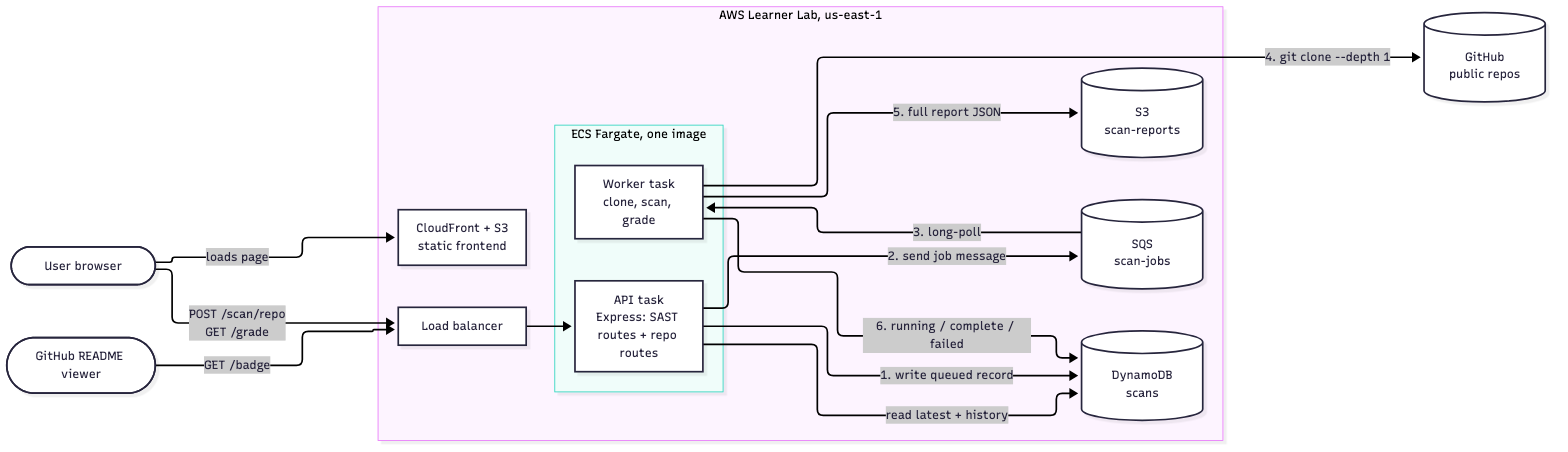
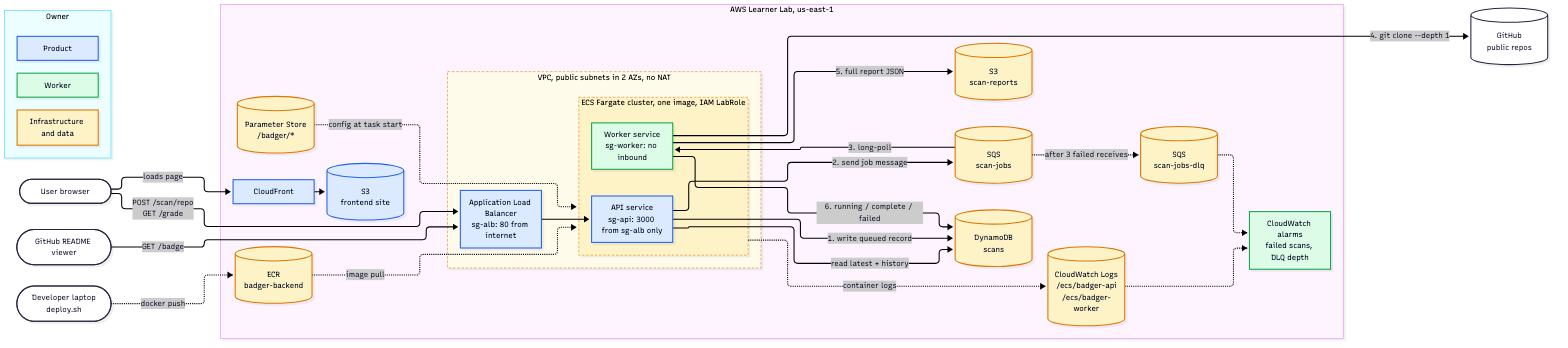
architecture v2: Milestone 3 infrastructure plan, archive v1 diagram

diff --git a/docs/architecture.md b/docs/architecture.md
@@ -1,6 +1,6 @@
 # Architecture
 
-Target AWS architecture (Milestone 3+). Nothing is deployed yet; locally, every AWS service below is emulated (see [Local mapping](#local-mapping)). Message and record formats are in [`contracts.md`](contracts.md).
+Target AWS architecture for Milestone 3. Nothing is deployed yet; locally, the AWS services are emulated (see [Local mapping](#local-mapping)). Message and record formats are in [`contracts.md`](contracts.md). Earlier versions of this diagram are kept under [Revisions](#revisions).
 
 ![Target AWS architecture](architecture.png)
 
@@ -8,21 +8,41 @@ Target AWS architecture (Milestone 3+). Nothing is deployed yet; locally, every 
 flowchart LR
   user([User browser])
   readme([GitHub README viewer])
+  dev([Developer laptop<br/>deploy.sh])
   gh[(GitHub<br/>public repos)]
 
   subgraph aws [AWS Learner Lab, us-east-1]
-    cf[CloudFront + S3<br/>static frontend]
-    alb[Load balancer]
-    subgraph ecs [ECS Fargate, one image]
-      api[API task<br/>Express: SAST routes + repo routes]
-      worker[Worker task<br/>clone, scan, grade]
+    cf[CloudFront]
+    site[(S3<br/>frontend site)]
+
+    subgraph vpc [VPC, public subnets in 2 AZs, no NAT]
+      alb[Application Load Balancer<br/>sg-alb: 80 from internet]
+      subgraph ecs [ECS Fargate cluster, one image, IAM LabRole]
+        api[API service<br/>sg-api: 3000 from sg-alb only]
+        worker[Worker service<br/>sg-worker: no inbound]
+      end
     end
+
     sqs[(SQS<br/>scan-jobs)]
+    dlq[(SQS<br/>scan-jobs-dlq)]
     ddb[(DynamoDB<br/>scans)]
     s3[(S3<br/>scan-reports)]
+    ecr[(ECR<br/>badger-backend)]
+    ssm[(Parameter Store<br/>/badger/*)]
+    logs[(CloudWatch Logs<br/>/ecs/badger-api<br/>/ecs/badger-worker)]
+    alarm[CloudWatch alarms<br/>failed scans, DLQ depth]
   end
 
+  subgraph legend [Owner]
+    direction TB
+    lp[Product]
+    lw[Worker]
+    li[Infrastructure and data]
+  end
+
+  %% Request flow (solid, numbered as in the Flow section)
   user -->|loads page| cf
+  cf --> site
   user -->|POST /scan/repo<br/>GET /grade| alb
   readme -->|GET /badge| alb
   alb --> api
@@ -33,7 +53,27 @@ flowchart LR
   worker -->|5. full report JSON| s3
   worker -->|6. running / complete / failed| ddb
   api -->|read latest + history| ddb
+
+  %% Operations (dotted)
+  dev -.->|docker push| ecr
+  ecr -.->|image pull| ecs
+  ssm -.->|config at task start| ecs
+  ecs -.->|container logs| logs
+  sqs -.->|after 3 failed receives| dlq
+  dlq -.-> alarm
+  logs -.-> alarm
+
+  classDef product fill:#dbeafe,stroke:#2563eb,color:#0f172a
+  classDef worker fill:#dcfce7,stroke:#16a34a,color:#0f172a
+  classDef infra fill:#fef3c7,stroke:#d97706,color:#0f172a
+  class cf,site,alb,api,lp product
+  class worker,alarm,lw worker
+  class sqs,dlq,ddb,s3,ecr,ssm,logs,li infra
+  style vpc fill:#fffbeb,stroke:#d97706,stroke-dasharray:5 3
+  style ecs fill:#fef3c7,stroke:#d97706,stroke-dasharray:5 3
 ```
+
+Solid arrows are the request flow; dotted arrows are deployment, configuration, logging, and failure handling. Colors show which role owns each component (see [Ownership](#ownership)).
 
 ## Flow
 
@@ -42,17 +82,56 @@ flowchart LR
 3. The worker grades the findings, uploads the full report to S3, writes the summary record as `complete` (or `failed`), and only then deletes the message.
 4. The frontend polls `GET /grade/...` until the scan finishes. README badges call `GET /badge/...`, which reads the latest record from DynamoDB.
 
-API and worker are the same image with different commands ([decision 0002](decisions/0002-single-image-api-and-worker.md)), so they scale independently. The load balancer, and how the API is exposed publicly, are assumptions to confirm in Milestone 3.
+API and worker are the same image with different commands ([decision 0002](decisions/0002-single-image-api-and-worker.md)), so they scale independently.
+
+## Operations
+
+- **Deploy:** `deploy.sh` (in `infra/`, Milestone 3) builds the image, pushes it to ECR, and updates the stack. Learner Lab credentials rotate each session, so deploys are run by hand, not from CI.
+- **Configuration:** queue URL, table and bucket names, and clone limits live in Parameter Store under `/badger/`. ECS injects them as environment variables at task start, the same names as `.env.example`. `AWS_ENDPOINT_URL` is not set, so `aws/clients.js` uses the real AWS endpoints.
+- **Permissions:** Learner Lab does not allow creating IAM roles, so both task role and task execution role are the provided `LabRole`.
+- **Network:** the load balancer is the only component that accepts inbound traffic from the internet. The API accepts traffic only from the load balancer's security group; the worker accepts none, and needs outbound HTTPS only (GitHub and AWS APIs).
+- **Logs:** each service writes to its own CloudWatch log group (`/ecs/badger-api`, `/ecs/badger-worker`) with limited retention.
+- **Failure handling:** the worker records expected failures (bad repo, clone timeout, oversized repo) as `failed` and deletes the message. A message that is received three times without being deleted (the worker crashed or hung) moves to the dead-letter queue `scan-jobs-dlq`. CloudWatch alarms watch the DLQ and failed scans.
+
+### Open items
+
+These parts of the diagram are proposals, to be settled in decision records before Milestone 3 deploys:
+
+- **Networking:** public subnets with public IPs and no NAT gateway (a NAT gateway is a fixed hourly cost against the Learner Lab budget), with inbound access restricted by security groups. Alternative: private subnets with NAT or VPC endpoints.
+- **Deploy tooling:** CloudFormation templates driven by `deploy.sh`, or plain AWS CLI scripts.
+- **Public API exposure:** browser and badge requests go straight to the load balancer; routing them through CloudFront is an option. HTTPS needs a certificate, which may not be possible in Learner Lab.
+- **Alarm design:** owned by the Worker role (metric, thresholds, notification).
+
+## Ownership
+
+| Role | Components |
+|---|---|
+| Product (API + frontend) | API service, load balancer, CloudFront and the frontend bucket |
+| Worker | Worker service, SQS consumption, failure handling, CloudWatch alarms |
+| Infrastructure and data | VPC and security groups, ECS cluster, SQS queues, DynamoDB, report bucket, ECR, Parameter Store, log groups, deploy scripts, this diagram |
 
 ## Local mapping
 
 | AWS (target) | Local (`docker compose`) |
 |---|---|
 | SQS, DynamoDB, S3 | `localstack` service running Floci ([decision 0001](decisions/0001-localstack-for-local-dev.md)), resources created by `infra/localstack/init.sh` |
-| ECS API task | `api` service, port 3000 |
-| ECS worker task | `worker` service |
+| SQS dead-letter queue | Not emulated yet |
+| ECS API service | `api` service, port 3000 |
+| ECS worker service | `worker` service |
+| ECR | Image built locally by `docker compose` |
+| Parameter Store | `.env` (copied from `.env.example`) |
+| CloudWatch Logs | `docker compose logs` |
 | CloudFront + S3 frontend | `frontend/index.html` served by the API (until Milestone 4) |
-| Load balancer | none; direct to `localhost:3000` |
+| Load balancer, VPC, security groups | None; direct to `localhost:3000` |
+
+To check the emulated data layer end to end, run `docker compose run --rm api npm run smoke`.
+
+## Revisions
+
+| Version | Milestone | What changed | Diagram |
+|---|---|---|---|
+| v2 (current) | Milestone 3 plan | Added VPC and security groups, ECR, Parameter Store, CloudWatch logs and alarms, SQS dead-letter queue, deploy path, and role ownership colors | above |
+| v1 | Milestone 1 skeleton | Core request flow: load balancer, API and worker tasks, SQS, DynamoDB, S3, GitHub | [PNG](architecture-history/v1-skeleton.png), [source](architecture-history/v1-skeleton.mmd) |
 
 ## Updating the diagram
 
@@ -62,3 +141,5 @@ The Mermaid block above is the source. After editing it, regenerate `architectur
 sed -n '/^```mermaid$/,/^```$/p' docs/architecture.md | sed '1d;$d' \
   | npx -y @mermaid-js/mermaid-cli@12.0.0 -i - -o docs/architecture.png -b white -s 2
 ```
+
+For a significant change, first archive the current version: copy the Mermaid block to `architecture-history/v<N>-<name>.mmd` and `architecture.png` to `architecture-history/v<N>-<name>.png`, then add a row to [Revisions](#revisions).
